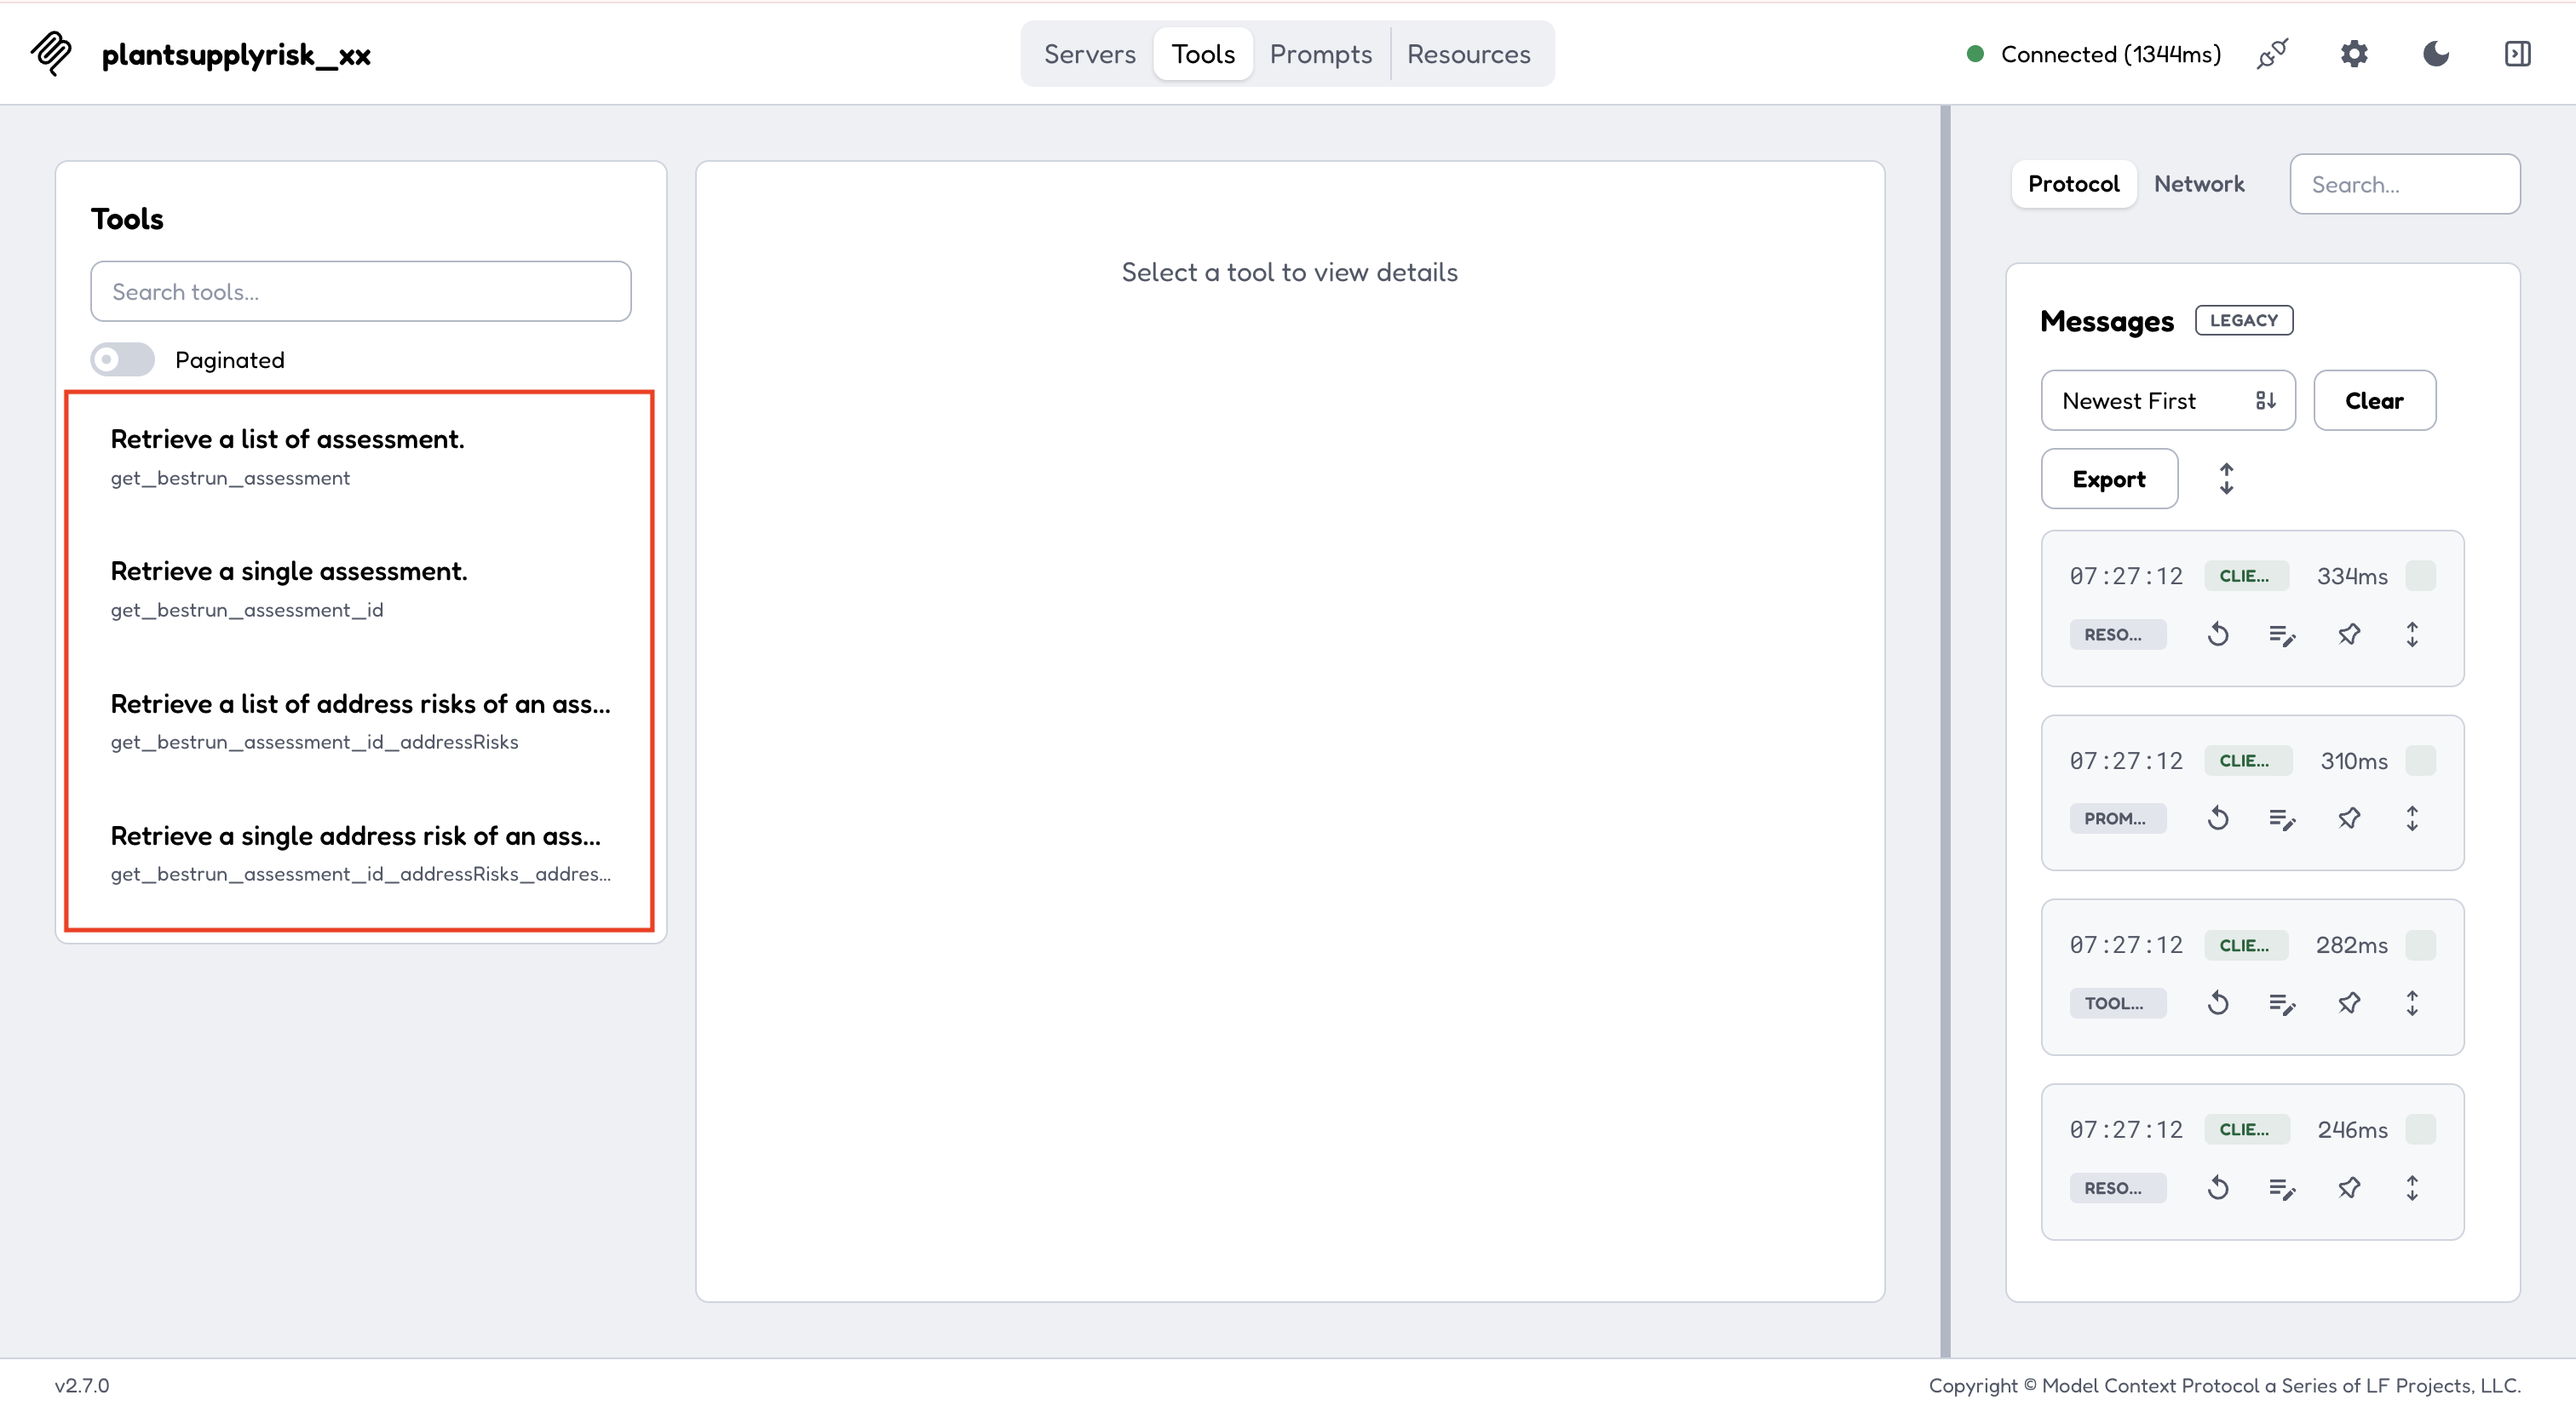
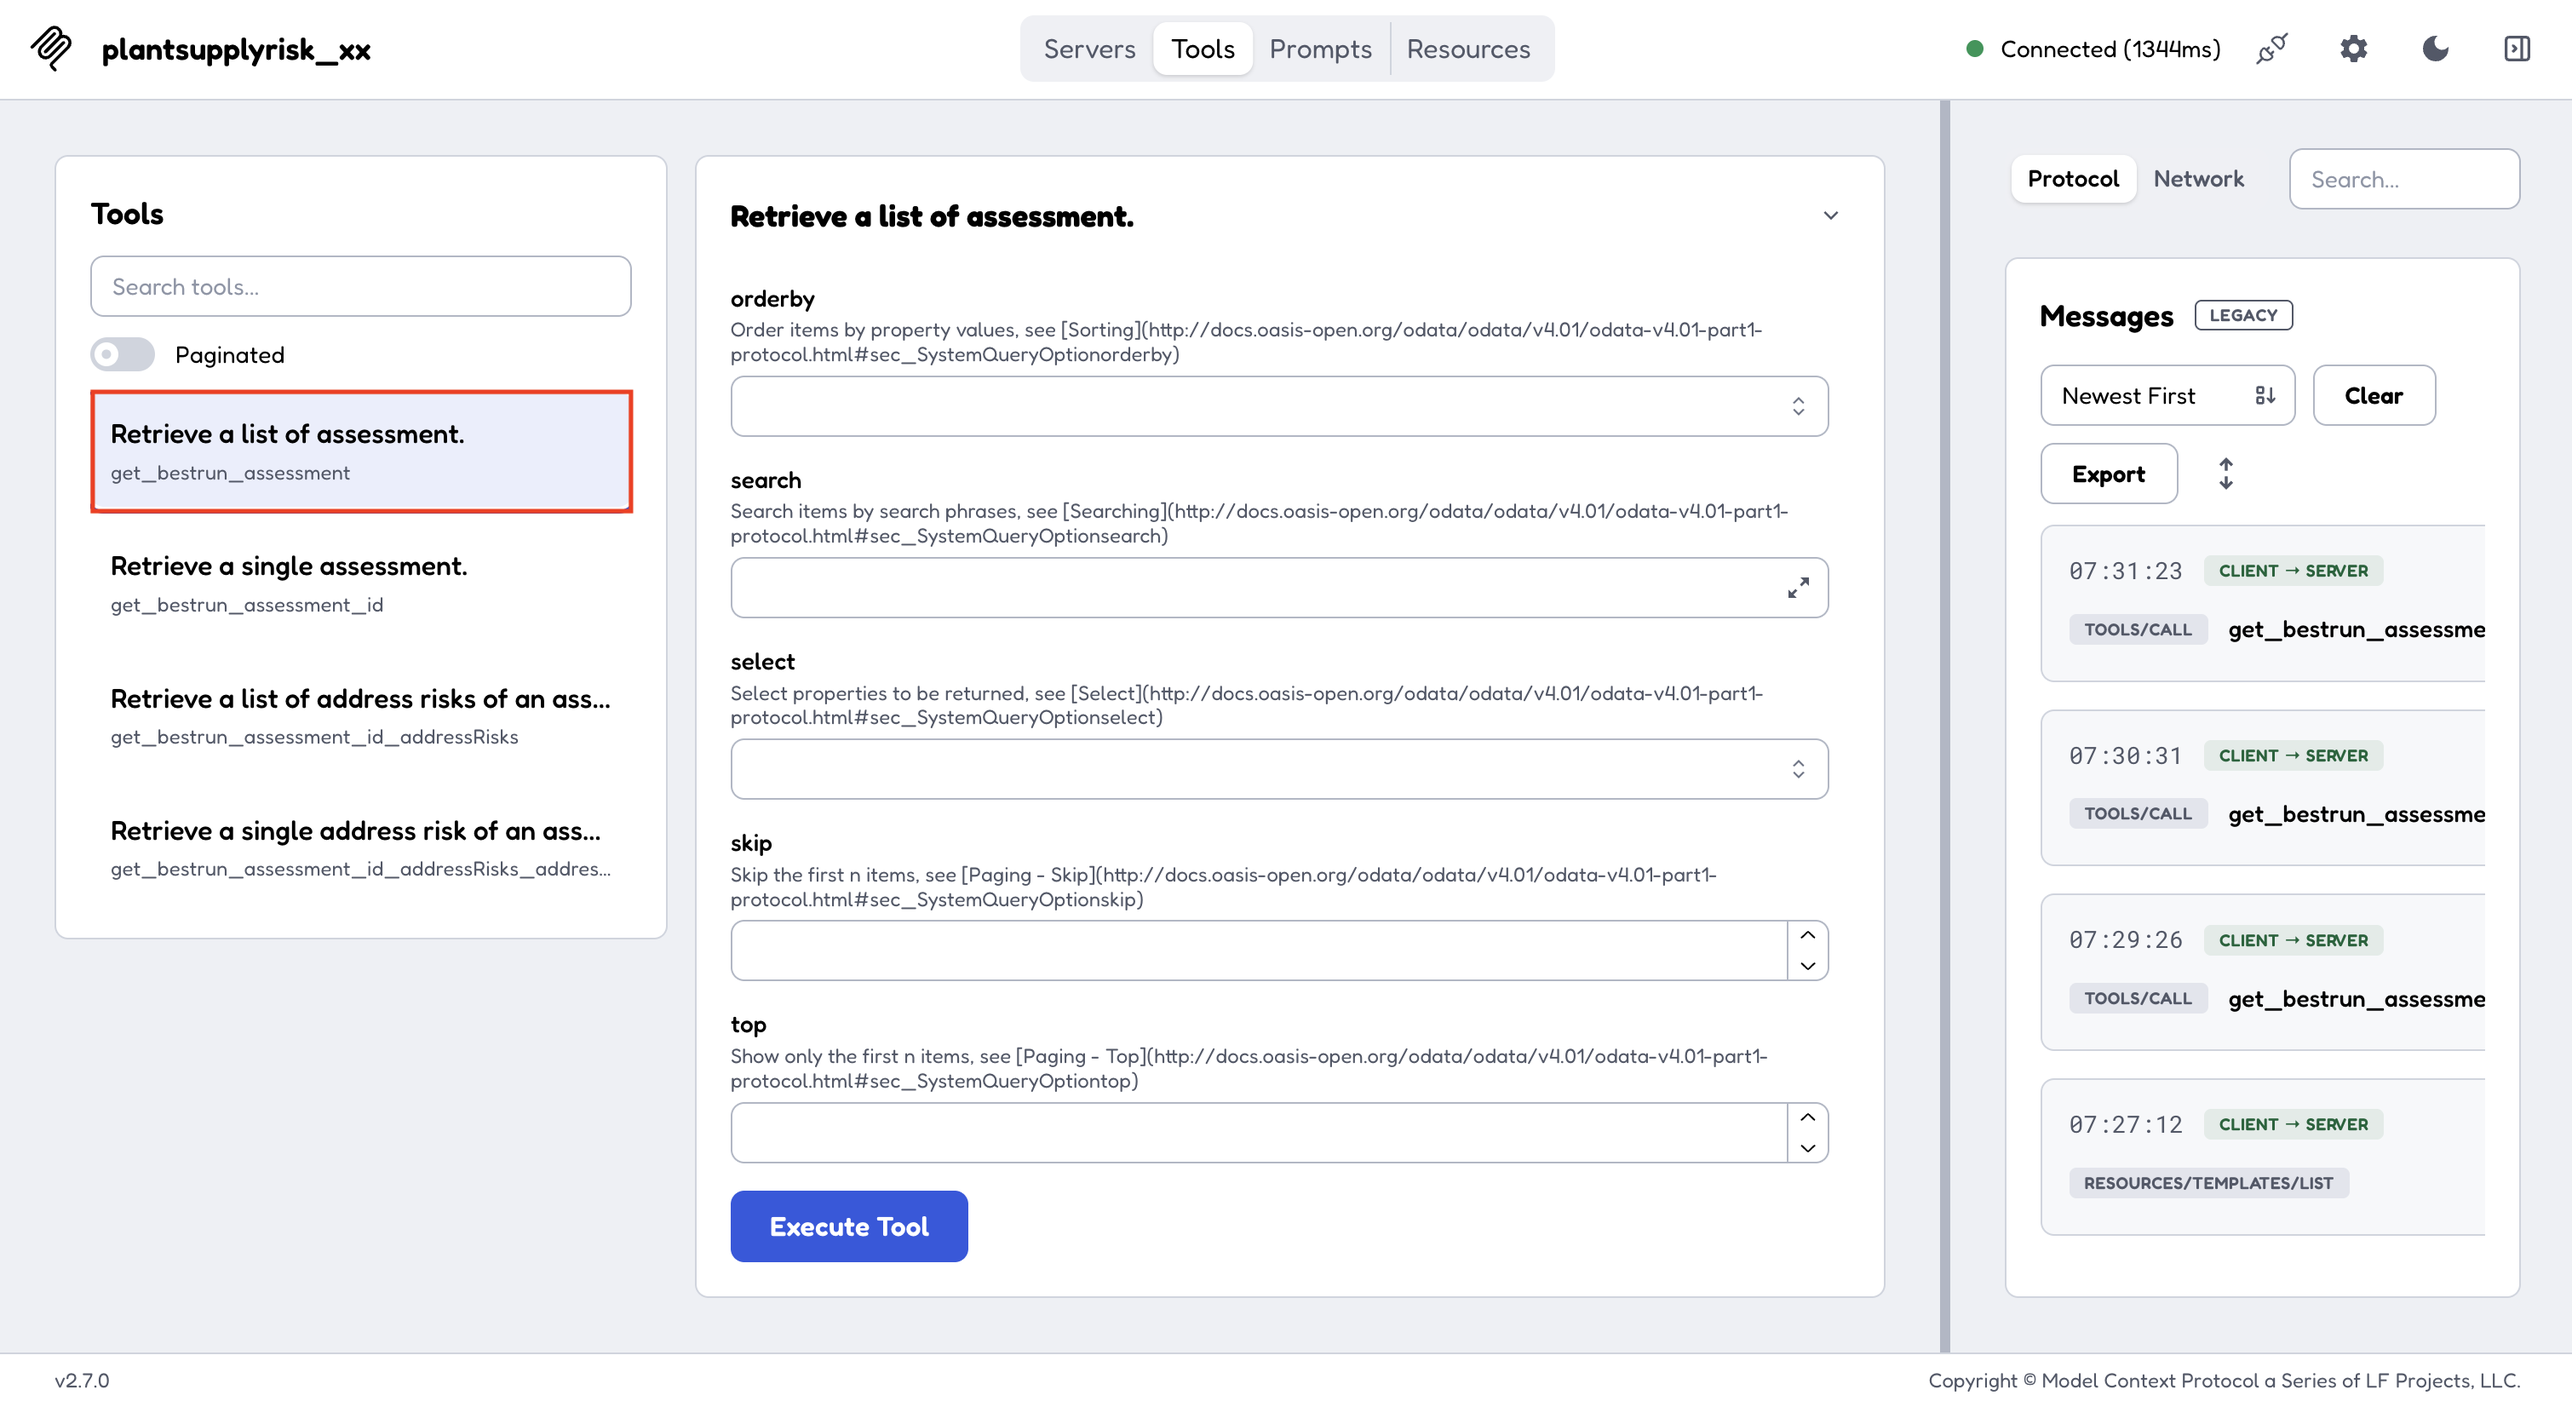
Ex 2.8: improve Step 4 with tool parameter and id-input screenshots
- Replace ex2-step8-tools-list.png with image showing get_bestrun_assessment selected and Execute Tool button visible
- Add ex2-step8-address-risk-id.png showing id parameter field filled in for address risks tool
- Update Step 4 text: split into distinct click-tool, execute, pick-id, enter-id, execute-again sequence

diff --git a/tutorials/composed-mcp-server/exercises/ex2/README.md b/tutorials/composed-mcp-server/exercises/ex2/README.md
@@ -364,15 +364,19 @@ Toggle the server switch to **Connected**. The server card turns green confirmin
 
 ![MCP Inspector — plantsupplyrisk-mcp-xx Connected](../../resources/screenshots/ex2-step8-connected.png)
 
-In the top navigation bar, click **Tools**. You will see the 4 operations exposed from your OpenAPI spec.
+In the top navigation bar, click **Tools**. You will see the 4 operations exposed from your OpenAPI spec. Click **Retrieve a list of assessment** (`get_bestrun_assessment`) — the parameter form opens in the center pane. No parameters are required — click **Execute Tool**.
 
-![MCP Inspector — Tools tab with 4 tools listed](../../resources/screenshots/ex2-step8-tools-list.png)
+![MCP Inspector — get_bestrun_assessment selected with Execute Tool button](../../resources/screenshots/ex2-step8-tools-list.png)
 
-Click **Retrieve a list of assessment** (`get_bestrun_assessment`). No parameters are needed — the Results pane shows all plants with their IDs (Berlin, Munich, London, etc.).
+The Results pane shows all plants with their IDs (Berlin, Munich, London, etc.).
 
 ![MCP Inspector — Assessment results showing plant list](../../resources/screenshots/ex2-step8-assessment-results.png)
 
-Pick any `id` from the results and click **Retrieve a list of address risks of an assessment** (`get_bestrun_assessment_id_addressRisks`). Enter the `id` as a parameter and run — this returns the live risk scores for that plant's location.
+Pick any `id` from the results and click **Retrieve a list of address risks of an assessment** (`get_bestrun_assessment_id_addressRisks`). Enter the `id` value in the **id** field.
+
+![MCP Inspector — id parameter field filled in for address risks tool](../../resources/screenshots/ex2-step8-address-risk-id.png)
+
+Click **Execute Tool** — this returns the live risk scores for that plant's location.
 
 ![MCP Inspector — Address risk results for a plant](../../resources/screenshots/ex2-step8-address-risk-results.png)
 
